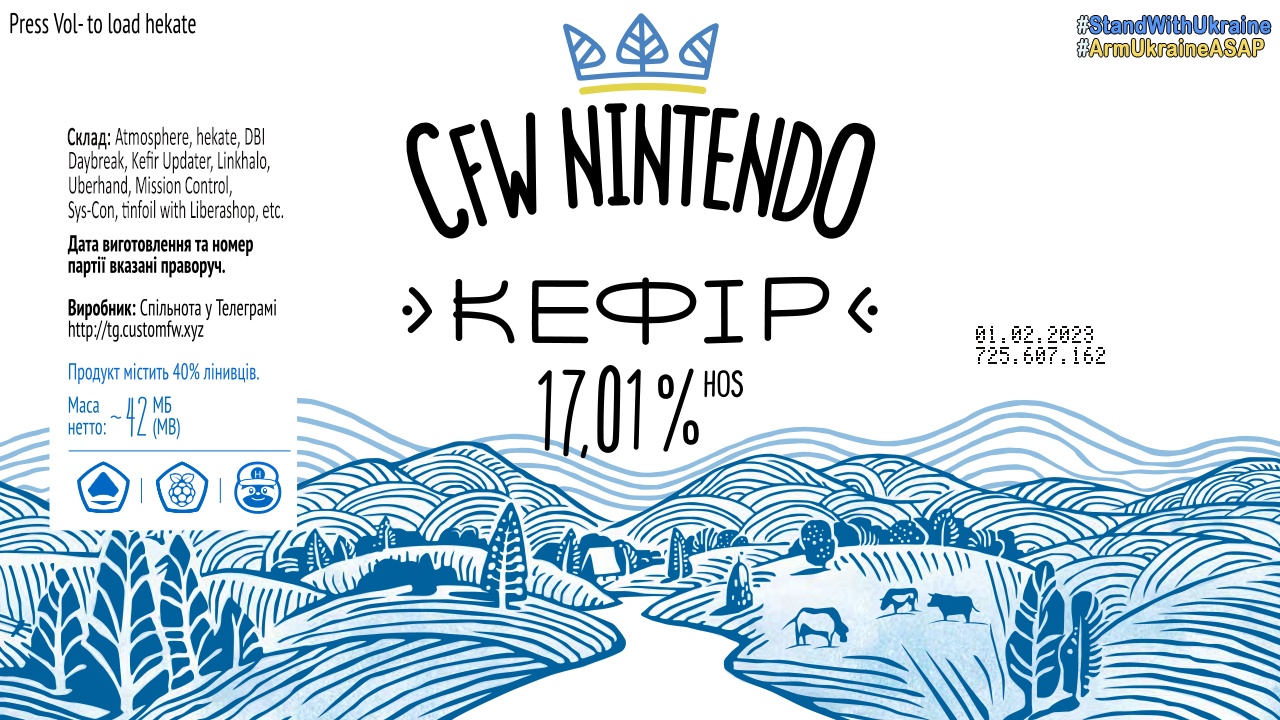
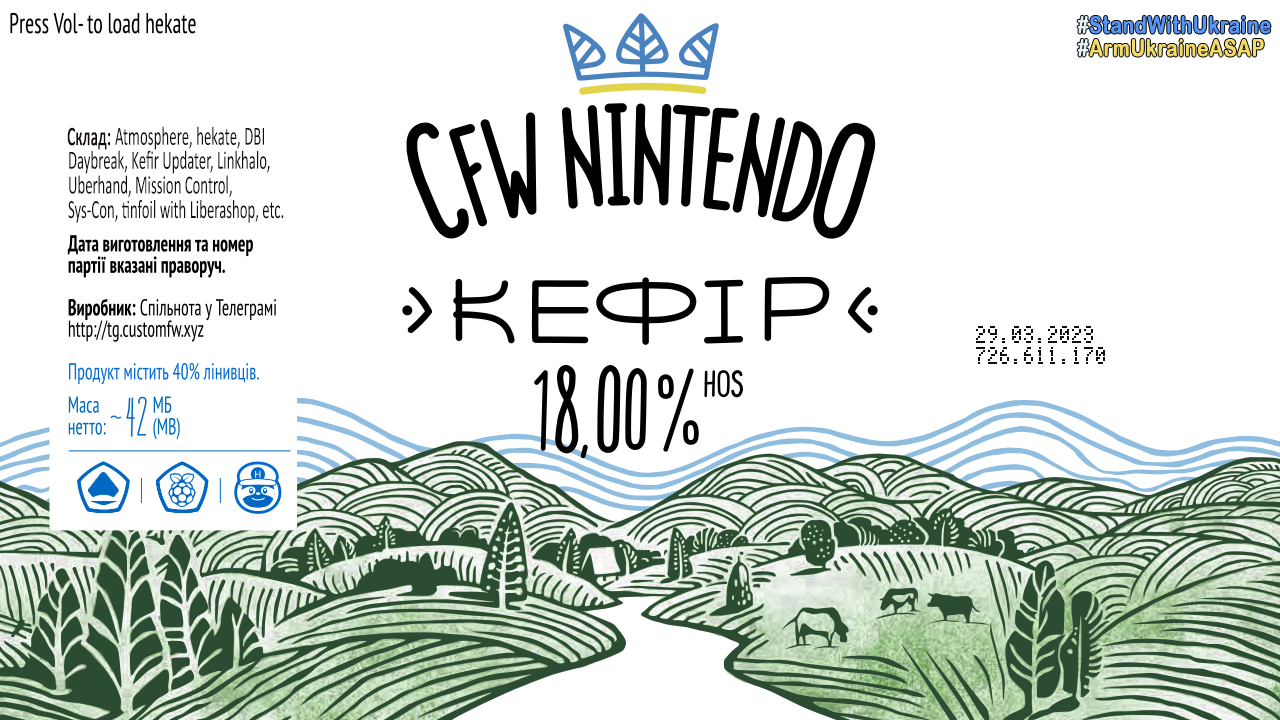
kefir726

Changed region(s): [[0.0, 0.4889, 1.0, 1.0], [0.75, 0.4583, 0.7812, 0.4889]]

diff --git a/kefir.html b/kefir.html
@@ -329,7 +329,7 @@
 <nav class="toc">
     <header><h4 class="nav__title"><i class="fa fa-file-text"></i> Разделы</h4></header>
 <ul class="toc__menu" id="markdown-toc">
-  <li><a href="#kefir-725" id="markdown-toc-kefir-725">KEFIR 725</a>    <ul>
+  <li><a href="#kefir-726" id="markdown-toc-kefir-726">KEFIR 726</a>    <ul>
       <li><a href="#что-такое-кефир" id="markdown-toc-что-такое-кефир">Что такое кефир</a></li>
       <li><a href="#инструкция-по-установкеобновлению-kefir" id="markdown-toc-инструкция-по-установкеобновлению-kefir">Инструкция по установке/обновлению kefir</a></li>
     </ul>
@@ -366,7 +366,7 @@
 
 <hr />
 
-<h2 id="kefir-725"><a href="https://codeberg.org/rashevskyv/kefir/releases" target="_blank">KEFIR 725</a></h2>
+<h2 id="kefir-726"><a href="https://codeberg.org/rashevskyv/kefir/releases" target="_blank">KEFIR 726</a></h2>
 
 <p class="text-center"><img src="/images/kefir.png" alt="kefir" width="70%" /></p>
 
@@ -620,171 +620,67 @@
 <h3 id="изменения-от-прошлой-версии">Изменения от прошлой версии</h3>
 
 <h4 id="ukr"><strong>UKR</strong>:</h4>
-<p><strong>Повна підтримка 17.0.1</strong>
-<strong>725:</strong></p>
-<ul>
-  <li>[<strong>Виправлено</strong>] Помилку, через яку не запускався Semi-Stock</li>
-</ul>
+<p><strong>Базова підтримка 18.0.0. Рекомендується тримати emuNAND на 17.0.1</strong></p>
 
-<p><strong>724:</strong></p>
+<p><strong>726:</strong></p>
 <ul>
-  <li>[<strong>Виправлено</strong>] Помилку, яка приводила до непрацюючого sys-clk при оновленні через апдейтер</li>
-  <li>[<strong>Оновлено</strong>] <a href="https://github.com/efosamark/Uberhand-Overlay">Uberhand 2.1.3</a></li>
-</ul>
-
-<p><strong>722:</strong></p>
-<ul>
-  <li>[<strong>Оновлено</strong>] <a href="https://github.com/rashevskyv/Kefirosphere">Atmosphere 1.6.2</a> - перезібрано з останнім коммітом
+  <li>[<strong>Оновлено</strong>] <a href="https://github.com/rashevskyv/Kefirosphere">Atmosphere 1.7.0 pre-release</a> - базова підтримка 18.0.0. Рекомендується тримати emuNAND на 17.0.1, поки підтрика не буде повною. Також сігпатчі вшиті в саму атмосферу (дякую db)
     <ul>
       <li><a href="https://github.com/Atmosphere-NX/Atmosphere/releases"><strong>Детальніше про зміни в Atmosphere</strong></a></li>
     </ul>
   </li>
-  <li>[<strong>Виправлено</strong>] Прибрані патчі з семістоку. Тепер як і раніше неможливо в ньому встановити ігри через DBI</li>
-  <li>[Повернуто] tinfoil. Поки працює.</li>
-  <li>[<strong>Оновлено</strong>] <a href="https://github.com/efosamark/Uberhand-Overlay">Uberhand 2.1.2</a>
+  <li>[<strong>Оновлено</strong>] <a href="https://github.com/CTCaer/hekate/releases">hekate 6.1.1</a>
     <ul>
-      <li>Додано меню Settings де можна загрузити loader без модифікацій від 4IFIR, що дає можливість використовувати Kefir зі звичайним sys-clk та OC-suite. Зауважу, що при такому переключенні комплектний sys-clk буде прибрано, тобто вам доведеться ставити софт для розгону самостійно</li>
-      <li>Додана можливість загрузити мою фірмову тему для встановлення через <strong>NXThemeInjector</strong></li>
+      <li>Підтримка 18.0.0</li>
+      <li>Замість помилки pkg1 тепер консоль буде грузитися в офіційну прошивку</li>
     </ul>
   </li>
-  <li>[<strong>Оновлено</strong>] <a href="https://github.com/rashevskyv/dbi/releases">DBI 658</a> - виправлення в Activity Log</li>
-</ul>
-
-<p><strong>719:</strong></p>
-<ul>
-  <li>[<strong>Виправлено</strong>] Помилку оновлення через kefir updater усунено</li>
-</ul>
-
-<p><strong>718:</strong></p>
-<ul>
-  <li>[<strong>Оновлено</strong>] <a href="https://github.com/rashevskyv/Kefirosphere">Atmosphere 1.6.2</a> - перезібрано з останнім коммітом
-    <ul>
-      <li><a href="https://github.com/Atmosphere-NX/Atmosphere/releases"><strong>Детальніше про зміни в Atmosphere</strong></a></li>
-    </ul>
-  </li>
-  <li>[<strong>Додано</strong>] <a href="https://github.com/efosamark/Uberhand-Overlay">Uberhand</a> - замість ванільного лоадера Tesla Menu, що дозволило використовувати корисні скріпти:
-    <ul>
-      <li><strong>DBI</strong> - заміна мови та оновлення програми на літу</li>
-      <li><strong>Translate Interface</strong> - додаткові мови інтерфейсу на вибір (у тому числі українська)</li>
-      <li><strong>Semi-stock</strong> - загрузка в семісток из меню</li>
-      <li><strong>Reboot та Shutdown</strong> - перезагрузка та виключення консолі із меню</li>
-    </ul>
-  </li>
-  <li>[<strong>Оновлено</strong>] <a href="https://github.com/rashevskyv/dbi/releases">DBI 653</a> - виправлені баги, поліпшано Activity Log</li>
+  <li>[<strong>Оновлено</strong>] [lockpick_RCM] - підтримка 18.0.0</li>
+  <li>[<strong>Змінено</strong>] Замість <code class="language-plaintext highlighter-rouge">tinfoil.nsp</code> тепер інсталлер tinfoil в HBMenu</li>
 </ul>
 
 <hr />
 
 <h4 id="rus"><strong>RUS</strong>:</h4>
-<p><strong>Полная поддержка 17.0.1</strong></p>
+<p><strong>Базовая поддержка 18.0.0. Рекомендуется держать emuNAND на 17.0.1</strong></p>
 
-<p><strong>725:</strong></p>
+<p><strong>726:</strong></p>
 <ul>
-  <li>[<strong>Исправлено</strong>] Ошибку, из-за которой не запускался Semi-Stock</li>
-</ul>
-
-<p><strong>724:</strong></p>
-<ul>
-  <li>[<strong>Исправлено</strong>] Ошибку, которая приводила к неработающему sys-clk при обновлении через апдейтер</li>
-  <li>[<strong>Обновлено</strong>] <a href="https://github.com/efosamark/Uberhand-Overlay">Uberhand 2.1.3</a></li>
-</ul>
-
-<p><strong>722:</strong></p>
-<ul>
-  <li>[<strong>Обновлено</strong>] <a href="https://github.com/rashevskyv/Kefirosphere">Atmosphere 1.6.2</a> - Пересобрано с последним коммитом
+  <li>[<strong>Обновлено</strong>] <a href="https://github.com/rashevskyv/Kefirosphere">Atmosphere 1.7.0 предварительная версия</a> - базовая поддержка 18.0.0. Рекомендуется держать emuNAND на 17.0.1, пока поддержка не будет полной. Также sigpatches интегрированы непосредственно в атмосферу (спасибо db)
     <ul>
-      <li><a href="https://github.com/Atmosphere-NX/Atmosphere/releases"><strong>Подробнее о изменениях в Atmosphere</strong></a></li>
+      <li><a href="https://github.com/Atmosphere-NX/Atmosphere/releases"><strong>Подробнее об изменениях в Atmosphere</strong></a></li>
     </ul>
   </li>
-  <li>[<strong>Исправлено</strong>] Убраны патчи из Semi Stock прошивки. Теперь, как и раньше, невозможно установить игры через DBI в ней</li>
-  <li>[<strong>Возвращено</strong>] tinfoil. Пока работает.</li>
-  <li>[<strong>Обновлено</strong>] <a href="https://github.com/efosamark/Uberhand-Overlay">Uberhand 2.1.2</a>
+  <li>[<strong>Обновлено</strong>] <a href="https://github.com/CTCaer/hekate/releases">hekate 6.1.1</a>
     <ul>
-      <li>Добавлено меню <code class="language-plaintext highlighter-rouge">Settings</code>, где можно загрузить загрузчик без модификаций от 4IFIR, что позволяет использовать Kefir с обычным sys-clk и OC-suite. Отмечу, что при таком переключении комплектный sys-clk будет удален, то есть вам придется устанавливать ПО для разгона самостоятельно.</li>
-      <li>Добавлена возможность загрузить мою фирменную тему для установки через <strong>NXThemeInjector</strong></li>
+      <li>Поддержка 18.0.0</li>
+      <li>Вместо ошибки pkg1 теперь консоль будет загружаться в официальную прошивку</li>
     </ul>
   </li>
-  <li>[<strong>Обновлено</strong>] <a href="https://github.com/rashevskyv/dbi/releases">DBI 658</a> - Исправления в Журнале активности</li>
-</ul>
-
-<p><strong>719:</strong></p>
-<ul>
-  <li>[<strong>Исправлено</strong>] Исправлена ошибка обновления через kefir updater</li>
-</ul>
-
-<p><strong>718:</strong></p>
-<ul>
-  <li>[<strong>Обновлено</strong>] <a href="https://github.com/rashevskyv/Kefirosphere">Atmosphere 1.6.2</a> - перезібрано з останнім коммітом
-    <ul>
-      <li><a href="https://github.com/Atmosphere-NX/Atmosphere/releases"><strong>Детальніше про зміни в Atmosphere</strong></a></li>
-    </ul>
-  </li>
-  <li>[<strong>Добавлено</strong>] <a href="https://github.com/efosamark/Uberhand-Overlay">Uberhand</a> - вместо ванильного загрузчика Tesla Menu, что позволило использовать скрипты:
-    <ul>
-      <li><strong>DBI</strong> - изменение локализации и обновление программы</li>
-      <li><strong>Translate Interface</strong> - дополнительные переводы инитерфейса на выбор</li>
-      <li><strong>Semi-stock</strong> - загрузка в семисток из меню</li>
-      <li><strong>Reboot и Shutdown</strong> - перезагрузка и виключение консоли из меню</li>
-    </ul>
-  </li>
-  <li>[<strong>Обновлено</strong>] <a href="https://github.com/rashevskyv/dbi/releases">DBI 653</a> - исправление багов, улучшения Activity Log</li>
+  <li>[<strong>Обновлено</strong>] [lockpick_RCM] - поддержка 18.0.0</li>
+  <li>[<strong>Изменено</strong>] Вместо <code class="language-plaintext highlighter-rouge">tinfoil.nsp</code> теперь инсталлятор tinfoil в HBMenu</li>
 </ul>
 
 <hr />
 
 <h4 id="eng"><strong>ENG</strong>:</h4>
-<p><strong>Full Support for 17.0.1</strong></p>
+<p><strong>Basic Support 18.0.0. Recommended to keep emuNAND on 17.0.1</strong></p>
 
-<p><strong>725:</strong></p>
+<p><strong>726:</strong></p>
 <ul>
-  <li>[<strong>Fixed</strong>] An error that prevented Semi-Stock from launching</li>
-</ul>
-
-<p><strong>724:</strong></p>
-<ul>
-  <li>[<strong>Fixed</strong>] A bug that resulted in a non-functional sys-clk after updating via the updater</li>
-  <li>[<strong>Updated</strong>] <a href="https://github.com/efosamark/Uberhand-Overlay">Uberhand 2.1.3</a></li>
-</ul>
-
-<p><strong>722:</strong></p>
-<ul>
-  <li>[<strong>Updated</strong>] <a href="https://github.com/rashevskyv/Kefirosphere">Atmosphere 1.6.2</a> - Rebuilt with the latest commit
-    <ul>
-      <li><a href="https://github.com/Atmosphere-NX/Atmosphere/releases"><strong>More on Atmosphere changes</strong></a></li>
-    </ul>
-  </li>
-  <li>[<strong>Fixed</strong>] Removed patches from the Semi Stock. Now, as before, it is not possible to install games through DBI</li>
-  <li>[<strong>Restored</strong>] tinfoil. Works for now.</li>
-  <li>[<strong>Updated</strong>] <a href="https://github.com/efosamark/Uberhand-Overlay">Uberhand 2.1.2</a>
-    <ul>
-      <li>Added a <code class="language-plaintext highlighter-rouge">Settings</code> menu where you can load a loader without modifications from 4IFIR, allowing the use of Kefir with regular sys-clk and OC-suite. Note that with this switch, the bundled sys-clk will be removed, meaning you will need to install overclocking software on your own.</li>
-      <li>Added ability to download my branded theme for installation via <strong>NXThemeInjector</strong></li>
-    </ul>
-  </li>
-  <li>[<strong>Updated</strong>] <a href="https://github.com/rashevskyv/dbi/releases">DBI 658</a> - Fixes in Activity Log</li>
-</ul>
-
-<p><strong>719:</strong></p>
-<ul>
-  <li>[<strong>Fixed</strong>] Fixed kefir updater error</li>
-</ul>
-
-<p><strong>718</strong>:</p>
-<ul>
-  <li>[<strong>Updated</strong>] <a href="https://github.com/rashevskyv/Kefirosphere">Atmosphere 1.6.2</a> - rebuilt with the latest commit
+  <li>[<strong>Updated</strong>] <a href="https://github.com/rashevskyv/Kefirosphere">Atmosphere 1.7.0 pre-release</a> - base support for 18.0.0. It is recommended to keep emuNAND on 17.0.1 until full support is available. Also, sigpatches are integrated into the atmosphere itself (thanks db)
     <ul>
       <li><a href="https://github.com/Atmosphere-NX/Atmosphere/releases"><strong>More about changes in Atmosphere</strong></a></li>
     </ul>
   </li>
-  <li>[<strong>Added</strong>] <a href="https://github.com/efosamark/Uberhand-Overlay">Uberhand</a> - instead of the vanilla Tesla Menu loader, which allowed the use of useful scripts:
+  <li>[<strong>Updated</strong>] <a href="https://github.com/CTCaer/hekate/releases">hekate 6.1.1</a>
     <ul>
-      <li><strong>DBI</strong> - language replacement and program update on the fly</li>
-      <li><strong>Translate Interface</strong> - additional interface languages to choose from</li>
-      <li><strong>Semi-stock</strong> - loading into semi-stock from the menu</li>
-      <li><strong>Reboot and Shutdown</strong> - rebooting and shutting down the console from the menu</li>
+      <li>Support for 18.0.0</li>
+      <li>Instead of a pkg1 error, the console will now boot into the official firmware</li>
     </ul>
   </li>
-  <li>[<strong>Updated</strong>] <a href="https://github.com/rashevskyv/dbi/releases">DBI 653</a> - fixed bugs, improved Activity Log</li>
+  <li>[<strong>Updated</strong>] [lockpick_RCM] - support for 18.0.0</li>
+  <li>[<strong>Changed</strong>] Instead of <code class="language-plaintext highlighter-rouge">tinfoil.nsp</code>, there is now a tinfoil installer in HBMenu</li>
 </ul>
 
 <hr />
